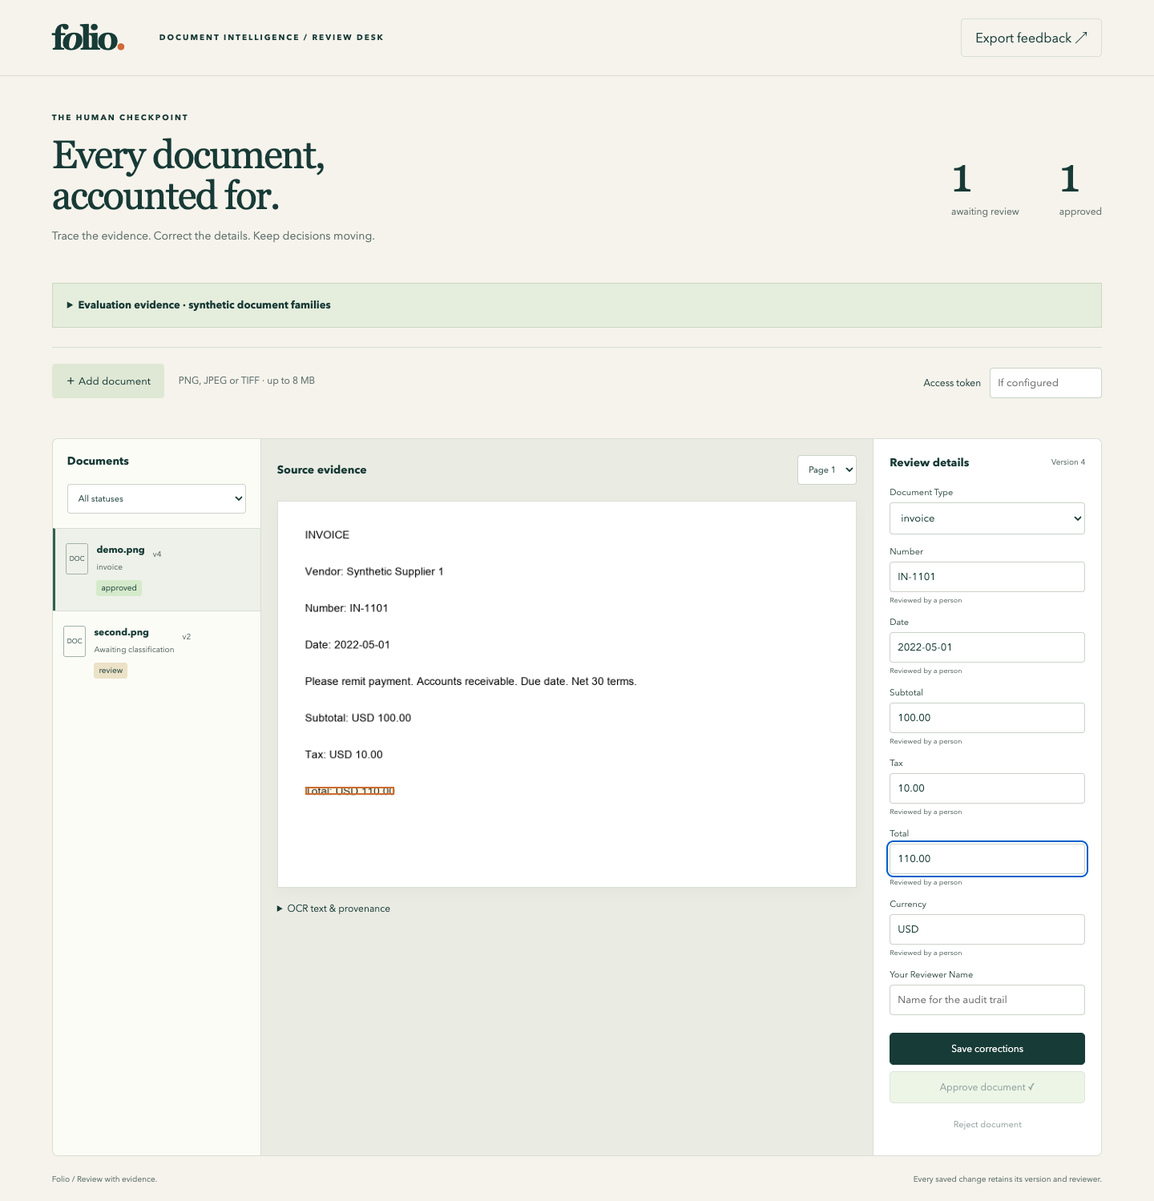
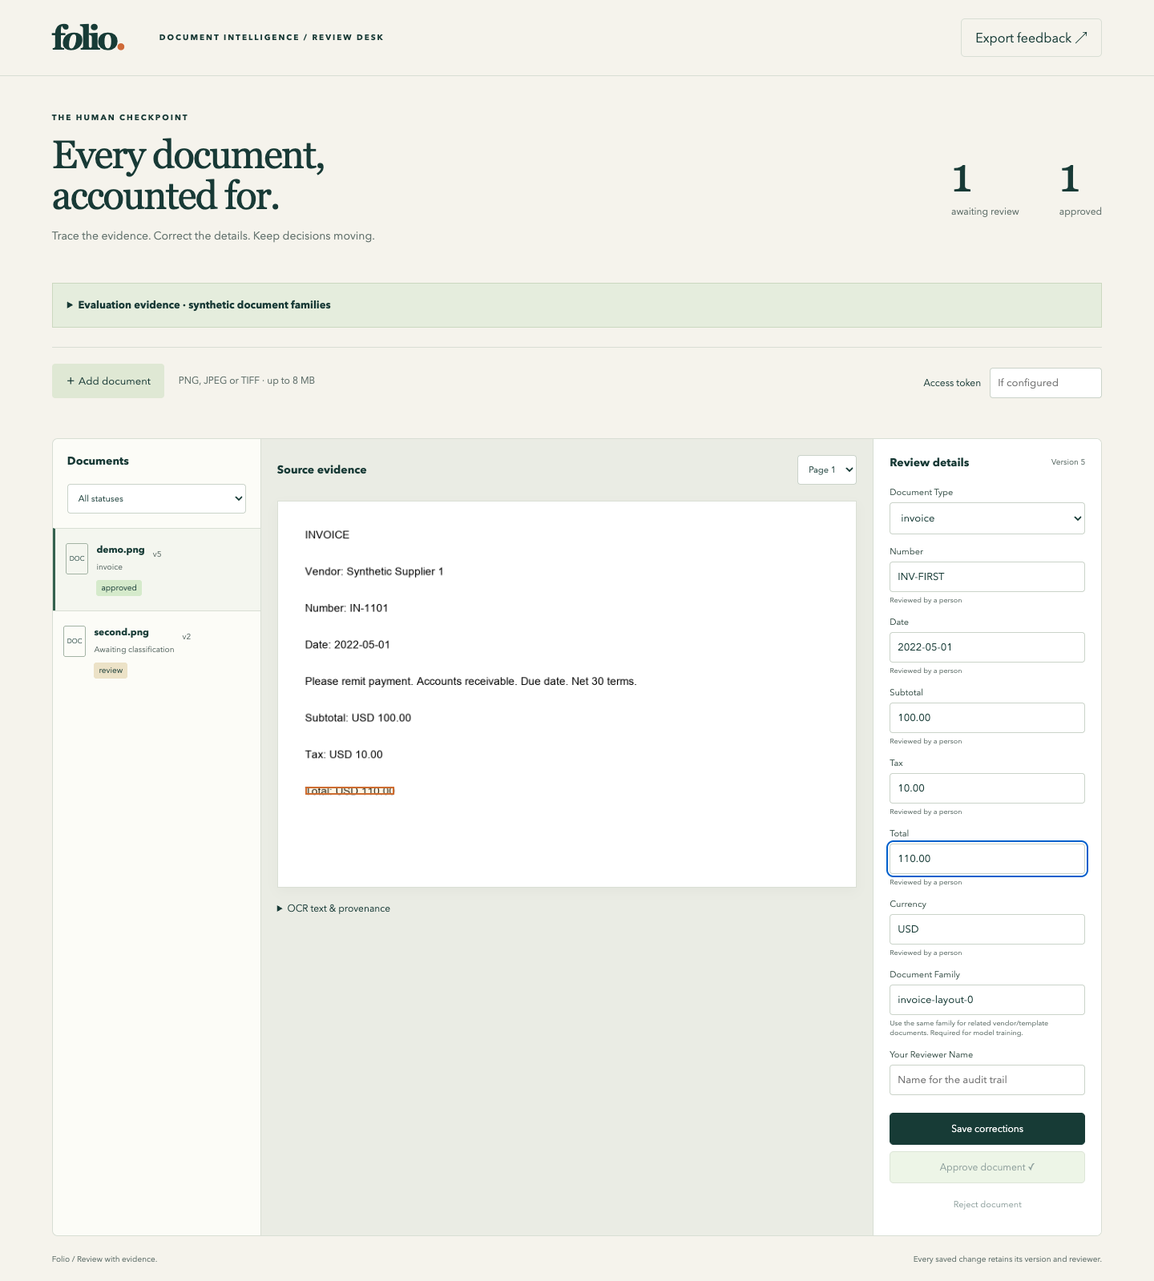
feat: complete reviewed-family assignment and leakage-safe feedback retraining

diff --git a/frontend/src/main.jsx b/frontend/src/main.jsx
@@ -4,6 +4,7 @@ import {request,filePayload} from './client';
 import './style.css';
 const names=['number','date','subtotal','tax','total','currency'];
 function App(){
+ const [family,setFamily]=useState('');
  const [evaluation,setEvaluation]=useState(null);
  const [dirty,setDirty]=useState(false);
  const [page,setPage]=useState(1),[focus,setFocus]=useState(null),[size,setSize]=useState({width:1500,height:1000});
@@ -12,9 +13,9 @@ function App(){
  function choose(row){if(dirty){setError("Save or discard your corrections before opening another document.");return;}open(row);}
  async function refresh(){const [items,counts,report]=await Promise.all([request('/api/documents'+(filter?'?status='+filter:'')),request('/api/summary'),request('/api/evaluation')]);setRows(items);setSummary(counts);setEvaluation(report);}
  useEffect(()=>{refresh().catch(e=>setError(e.message));},[filter]);
- function open(row){setDirty(false);setPage(1);setFocus(null);setSelected(row);setFields(Object.fromEntries(names.map(k=>[k,row.payload.fields?.[k]?.value||''])));setLabel(row.payload.label||row.payload.prediction?.label||'invoice');setError('');setMessage('');}
+ function open(row){setFamily(row.payload.family||'');setDirty(false);setPage(1);setFocus(null);setSelected(row);setFields(Object.fromEntries(names.map(k=>[k,row.payload.fields?.[k]?.value||''])));setLabel(row.payload.label||row.payload.prediction?.label||'invoice');setError('');setMessage('');}
  async function act(fn){setBusy(true);setError('');try{await fn();await refresh();}catch(e){setError(e.status===409?'Someone changed this document. Reload its latest version before saving.':e.message);}finally{setBusy(false);}}
- async function save(action){await act(async()=>{const row=await request(`/api/documents/${selected.id}/review`,{version:selected.version,fields:Object.fromEntries(Object.entries(fields).filter(([,v])=>v.trim())),label,reviewer,action},token);open(row);setMessage(action==='approve'?'Document approved':action==='reject'?'Document rejected':'Corrections saved');});}
+ async function save(action){await act(async()=>{const row=await request(`/api/documents/${selected.id}/review`,{version:selected.version,fields:Object.fromEntries(Object.entries(fields).filter(([,v])=>v.trim())),label,reviewer,action,family:family.trim()||null},token);open(row);setMessage(action==='approve'?'Document approved':action==='reject'?'Document rejected':'Corrections saved');});}
  async function upload(file){await act(async()=>{const row=await request('/api/documents',await filePayload(file),token);const result=await request(`/api/documents/${row.id}/process`,{},token);open(result);setMessage('Image processed. Review its extracted fields.');});}
  async function exportFeedback(){await act(async()=>{const records=await request('/api/feedback');const url=URL.createObjectURL(new Blob([JSON.stringify(records,null,2)],{type:'application/json'}));const link=document.createElement('a');link.href=url;link.download='reviewed-labels.json';link.click();URL.revokeObjectURL(url);setMessage(`${records.length} approved records exported`);});}
  return <><header><a className="brand" href="/">f<span>o</span>lio<span className="brand-dot">.</span></a><span className="eyebrow">DOCUMENT INTELLIGENCE / REVIEW DESK</span><button className="quiet" onClick={exportFeedback} disabled={busy}>Export feedback ↗</button></header>
@@ -23,7 +24,7 @@ function App(){
  {error&&<div role="alert" className="alert">{error}{selected&&<button onClick={()=>act(async()=>open(await request('/api/documents/'+selected.id)))}>Reload latest version</button>}</div>}
  <div role="status" aria-live="polite" className="notice">{busy?'Working…':message}</div>
  <section className="workspace"><aside><div className="queue-heading"><h2>Documents</h2><select aria-label="Filter status" value={filter} onChange={e=>setFilter(e.target.value)}><option value="">All statuses</option>{['queued','review','approved','rejected','failed'].map(x=><option key={x}>{x}</option>)}</select></div><div className="queue">{rows.length===0?<p className="empty">No documents here yet.<br/>Add an image to begin.</p>:rows.map(row=><button key={row.id} className={'queue-item '+(selected?.id===row.id?'selected':'')} onClick={()=>choose(row)}><span className="file-mark">DOC</span><span><strong>{row.filename}</strong><small>{row.payload.label||row.payload.prediction?.label||'Awaiting classification'}</small><em className={'badge '+row.status}>{row.status}</em></span><small>v{row.version}</small></button>)}</div></aside>
- {!selected?<div className="blank"><span className="document-icon">▤</span><h2>Evidence, side by side.</h2><p>Select a document to inspect its source and review the extracted fields.</p></div>:<><section className="evidence"><div className="panel-heading"><h2>Source evidence</h2><select aria-label="Source page" value={page} onChange={e=>setPage(Number(e.target.value))}>{(selected.payload.pages||[1]).map(p=><option key={p} value={p}>Page {p}</option>)}</select></div><div className="paper">{focus&&selected.payload.fields?.[focus]?.box&&selected.payload.fields[focus].page===page&&<div className="evidence-box" data-evidence={focus} style={{left:`${selected.payload.fields[focus].box.x/size.width*100}%`,top:`${selected.payload.fields[focus].box.y/size.height*100}%`,width:`${selected.payload.fields[focus].box.width/size.width*100}%`,height:`${selected.payload.fields[focus].box.height/size.height*100}%`}}/>}<img onLoad={e=>setSize({width:e.target.naturalWidth,height:e.target.naturalHeight})} alt={'Original '+selected.filename} src={`/api/documents/${selected.id}/image?page=${page}`}/></div><details><summary>OCR text & provenance</summary><pre>{selected.payload.text||'Not processed yet.'}</pre><small>SHA-256 {selected.digest}</small></details></section><section className="editor"><div className="panel-heading"><h2>Review details</h2><span>Version {selected.version}</span></div>{selected.status==='queued'?<button disabled={busy} onClick={()=>act(async()=>open(await request(`/api/documents/${selected.id}/process`,{},token)))}>Extract document</button>:<form onSubmit={e=>{e.preventDefault();save('save');}}><label>Document type<select value={label} onChange={e=>{setDirty(true);setLabel(e.target.value);}}>{['invoice','purchase_order','receipt'].map(x=><option key={x}>{x}</option>)}</select></label>{names.map(name=><label key={name}>{name.replace('_',' ')}<input name={name} onFocus={()=>{setFocus(name);setPage(selected.payload.fields?.[name]?.page||1);}} value={fields[name]||''} onChange={e=>{setDirty(true);setFields({...fields,[name]:e.target.value});}}/><small>{selected.payload.fields?.[name]?.method==='human-review'?'Reviewed by a person':selected.payload.fields?.[name]?`${Math.round(selected.payload.fields[name].confidence*100)}% OCR confidence · page ${selected.payload.fields[name].page}`:'No source value found'}</small></label>)}<label>Your reviewer name<input name="reviewer" required maxLength={80} value={reviewer} onChange={e=>setReviewer(e.target.value)} placeholder="Name for the audit trail"/></label>{selected.payload.issues?.length>0&&<p className="issues">Check: {selected.payload.issues.join(', ').replaceAll('_',' ')}</p>}{dirty&&<button type="button" className="quiet" onClick={()=>open(selected)}>Discard changes</button>}<button type="submit" disabled={busy}>Save corrections</button><button type="button" className="approve" disabled={busy||!reviewer.trim()} onClick={()=>save('approve')}>Approve document ✓</button><button type="button" className="quiet reject" disabled={busy||!reviewer.trim()} onClick={()=>save('reject')}>Reject document</button></form>}</section></>}
+ {!selected?<div className="blank"><span className="document-icon">▤</span><h2>Evidence, side by side.</h2><p>Select a document to inspect its source and review the extracted fields.</p></div>:<><section className="evidence"><div className="panel-heading"><h2>Source evidence</h2><select aria-label="Source page" value={page} onChange={e=>setPage(Number(e.target.value))}>{(selected.payload.pages||[1]).map(p=><option key={p} value={p}>Page {p}</option>)}</select></div><div className="paper">{focus&&selected.payload.fields?.[focus]?.box&&selected.payload.fields[focus].page===page&&<div className="evidence-box" data-evidence={focus} style={{left:`${selected.payload.fields[focus].box.x/size.width*100}%`,top:`${selected.payload.fields[focus].box.y/size.height*100}%`,width:`${selected.payload.fields[focus].box.width/size.width*100}%`,height:`${selected.payload.fields[focus].box.height/size.height*100}%`}}/>}<img onLoad={e=>setSize({width:e.target.naturalWidth,height:e.target.naturalHeight})} alt={'Original '+selected.filename} src={`/api/documents/${selected.id}/image?page=${page}`}/></div><details><summary>OCR text & provenance</summary><pre>{selected.payload.text||'Not processed yet.'}</pre><small>SHA-256 {selected.digest}</small></details></section><section className="editor"><div className="panel-heading"><h2>Review details</h2><span>Version {selected.version}</span></div>{selected.status==='queued'?<button disabled={busy} onClick={()=>act(async()=>open(await request(`/api/documents/${selected.id}/process`,{},token)))}>Extract document</button>:<form onSubmit={e=>{e.preventDefault();save('save');}}><label>Document type<select value={label} onChange={e=>{setDirty(true);setLabel(e.target.value);}}>{['invoice','purchase_order','receipt'].map(x=><option key={x}>{x}</option>)}</select></label>{names.map(name=><label key={name}>{name.replace('_',' ')}<input name={name} onFocus={()=>{setFocus(name);setPage(selected.payload.fields?.[name]?.page||1);}} value={fields[name]||''} onChange={e=>{setDirty(true);setFields({...fields,[name]:e.target.value});}}/><small>{selected.payload.fields?.[name]?.method==='human-review'?'Reviewed by a person':selected.payload.fields?.[name]?`${Math.round(selected.payload.fields[name].confidence*100)}% OCR confidence · page ${selected.payload.fields[name].page}`:'No source value found'}</small></label>)}<label>Document family<input name="family" value={family} maxLength={80} onChange={e=>{setDirty(true);setFamily(e.target.value);}} placeholder="vendor-template-v1"/><small>Use the same family for related vendor/template documents. Required for model training.</small></label><label>Your reviewer name<input name="reviewer" required maxLength={80} value={reviewer} onChange={e=>setReviewer(e.target.value)} placeholder="Name for the audit trail"/></label>{selected.payload.issues?.length>0&&<p className="issues">Check: {selected.payload.issues.join(', ').replaceAll('_',' ')}</p>}{dirty&&<button type="button" className="quiet" onClick={()=>open(selected)}>Discard changes</button>}<button type="submit" disabled={busy}>Save corrections</button><button type="button" className="approve" disabled={busy||!reviewer.trim()} onClick={()=>save('approve')}>Approve document ✓</button><button type="button" className="quiet reject" disabled={busy||!reviewer.trim()} onClick={()=>save('reject')}>Reject document</button></form>}</section></>}
  </section><footer><span>Folio / Review with evidence.</span><span>Every saved change retains its version and reviewer.</span></footer></main></>;
 }
 createRoot(document.getElementById('root')).render(<App/>);

diff --git a/frontend/tests/workstation.spec.js b/frontend/tests/workstation.spec.js
@@ -5,6 +5,7 @@ test('review queue renders and preserves document edits',async({page})=>{
  await page.locator('.queue-item').first().click();
  await expect(page.locator('input[name="total"]')).toBeVisible();
  await page.locator('input[name="reviewer"]').fill('browser-reviewer');
+ await page.locator('input[name="family"]').fill('invoice-layout-0');
  await page.locator('input[name="total"]').fill('110.00');
  await page.locator('button:has-text("Save corrections")').click();
  await expect(page.locator('[role="status"]')).toContainText('Corrections saved');

diff --git a/docreview/store.py b/docreview/store.py
@@ -9,7 +9,7 @@ class Conflict(ValueError):
 class Store:
     def __init__(self, path):
         self.path = str(path)
-        Path(path).parent.mkdir(parents=True, exist_ok=True)
+        Path(path).parent.mkdir(parents=True, exist_ok=True, mode=0o700)
         with self.connect() as c:
             c.executescript(
                 """
@@ -20,6 +20,8 @@ class Store:
              payload TEXT NOT NULL DEFAULT '{}', created REAL NOT NULL);
             """
             )
+
+        Path(path).chmod(0o600)
 
     def connect(self):
         c = sqlite3.connect(self.path, timeout=10)
@@ -119,9 +121,16 @@ class Store:
                 c.execute("SELECT * FROM documents WHERE id=?", (row["id"],)).fetchone()
             )
 
-    def review(self, identifier, version, fields, label, reviewer, action):
+    def review(self, identifier, version, fields, label, reviewer, action, family=None):
         from .review import validate_corrections
 
+        import re
+
+        if family is not None and (
+            not isinstance(family, str)
+            or not re.fullmatch(r"[A-Za-z0-9][A-Za-z0-9_.-]{0,79}", family)
+        ):
+            raise ValueError("Family must be a stable vendor/template identifier")
         corrections = validate_corrections(fields, label)
         if type(version) is not int or version < 1:
             raise ValueError("Version must be a positive integer")
@@ -165,6 +174,8 @@ class Store:
                     + ", ".join(payload["issues"])
                 )
             payload["label"] = label
+            if family is not None:
+                payload["family"] = family
             status = {"save": "review", "approve": "approved", "reject": "rejected"}[
                 action
             ]
@@ -182,7 +193,13 @@ class Store:
                     version + 1,
                     reviewer,
                     action,
-                    json.dumps({"fields": corrections, "label": label}),
+                    json.dumps(
+                        {
+                            "fields": corrections,
+                            "label": label,
+                            "family": payload.get("family"),
+                        }
+                    ),
                     time.time(),
                 ),
             )

diff --git a/tests/test_feedback_training.py b/tests/test_feedback_training.py
@@ -1,0 +1,58 @@
+import unittest, tempfile, pathlib
+from docreview.feedback import retrain_feedback
+
+
+class FeedbackTrainingTests(unittest.TestCase):
+    def test_reviewed_labels_retrain_on_fixed_holdout(self):
+        row = {
+            "id": "reviewed-1",
+            "family": "new-vendor",
+            "text": "Invoice payment due for consulting services",
+            "label": "invoice",
+        }
+        with tempfile.TemporaryDirectory() as d:
+            report = retrain_feedback([row], d)
+            self.assertEqual(report["training_count"], 109)
+            self.assertEqual(report["test"]["count"], 36)
+            self.assertTrue(pathlib.Path(d, "model", "manifest.json").exists())
+
+    def test_unassigned_family_is_rejected(self):
+        with tempfile.TemporaryDirectory() as d:
+            with self.assertRaises(ValueError):
+                retrain_feedback(
+                    [
+                        {
+                            "id": "x",
+                            "family": None,
+                            "text": "invoice",
+                            "label": "invoice",
+                        }
+                    ],
+                    d,
+                )
+
+
+class FamilyReviewTests(unittest.TestCase):
+    def test_reviewed_family_exports_and_blocks_holdout_retraining(self):
+        from docreview.store import Store
+        from docreview.feedback import export_corrections
+
+        with tempfile.TemporaryDirectory() as d:
+            s = Store(pathlib.Path(d) / "db")
+            row = s.create("a" * 64, "x", "x")
+            s.result(
+                row["id"], 1, {"fields": {}, "text": "Novel vendor invoice payment due"}
+            )
+            s.review(
+                row["id"],
+                2,
+                {"number": "I", "date": "2022-12-01", "total": "10"},
+                "invoice",
+                "alice",
+                "approve",
+                family="invoice-layout-4",
+            )
+            exported = export_corrections(s)
+            self.assertEqual(exported[0]["family"], "invoice-layout-4")
+            with self.assertRaises(ValueError):
+                retrain_feedback(exported, pathlib.Path(d) / "model")

diff --git a/docreview/feedback.py b/docreview/feedback.py
@@ -72,9 +72,44 @@ def export_corrections(store):
                     "fields": {
                         k: v["value"] for k, v in payload.get("fields", {}).items()
                     },
-                    "family": payload.get("family", row["digest"]),
+                    "family": payload.get("family"),
                     "source": "human-reviewed",
                 }
             )
         offset += len(rows)
     return result
+
+
+def retrain_feedback(feedback, directory):
+    """Train reviewed labels without changing the fixed calibration/test families."""
+    import json
+    from pathlib import Path
+    from .fixtures import records
+    from .dataset import split, audit_split, fingerprint
+    from .baseline import train, predict, save
+    from .metrics import classification
+
+    parts = split(records())
+    audit_split(parts)
+    training = merge_training_feedback(
+        parts["train"], feedback, parts["calibration"] + parts["test"]
+    )
+    model = train(training)
+    predictions = predict(model, [r["text"] for r in parts["test"]])
+    directory = Path(directory)
+    metadata = {
+        "training_sha256": fingerprint(training),
+        "feedback_ids": [r["id"] for r in feedback],
+    }
+    save(model, directory / "model", metadata)
+    report = {
+        **metadata,
+        "scope": "Fixed synthetic family holdout with additional reviewed labels",
+        "training_count": len(training),
+        "feedback_count": len(feedback),
+        "test": classification(
+            [r["label"] for r in parts["test"]], [p["label"] for p in predictions]
+        ),
+    }
+    (directory / "feedback-evaluation.json").write_text(json.dumps(report, indent=2))
+    return report

diff --git a/docreview/api.py b/docreview/api.py
@@ -21,6 +21,12 @@ def strict_json(data):
     return json.loads(data, object_pairs_hook=pairs, parse_constant=constant)
 
 
+def web_root(package=None):
+    package = Path(package) if package else Path(__file__).resolve().parent
+    checkout = package.parent / "frontend" / "dist"
+    return checkout if (checkout / "index.html").exists() else package / "web"
+
+
 def static_asset(directory, url):
     import mimetypes
     from urllib.parse import unquote
@@ -119,6 +125,7 @@ def create_server(
                                 body["label"],
                                 body["reviewer"],
                                 body["action"],
+                                family=body.get("family"),
                             ),
                         )
                 self.respond(404, {"error": "Not found"})
@@ -142,7 +149,7 @@ def create_server(
                 params = parse_qs(urlsplit(self.path).query)
                 if not path.startswith("/api/"):
                     data, content_type = static_asset(
-                        Path(__file__).resolve().parent.parent / "frontend" / "dist",
+                        web_root(),
                         path,
                     )
                     self.send_response(200)

diff --git a/tests/test_store_permissions.py b/tests/test_store_permissions.py
@@ -1,0 +1,29 @@
+import unittest, tempfile, pathlib, concurrent.futures
+from docreview.store import Store, Conflict
+
+
+class PrivateStoreTests(unittest.TestCase):
+    def test_database_is_private(self):
+        with tempfile.TemporaryDirectory() as d:
+            p = pathlib.Path(d) / "nested/review.sqlite"
+            Store(p)
+            self.assertEqual(p.stat().st_mode & 0o777, 0o600)
+            self.assertEqual(p.parent.stat().st_mode & 0o777, 0o700)
+
+    def test_only_one_concurrent_review_wins(self):
+        with tempfile.TemporaryDirectory() as d:
+            s = Store(pathlib.Path(d) / "s")
+            r = s.create("a" * 64, "x", "x")
+            s.result(r["id"], 1, {"fields": {}})
+
+            def write(name):
+                try:
+                    s.review(r["id"], 2, {"number": name}, "invoice", name, "save")
+                    return True
+                except Conflict:
+                    return False
+
+            with concurrent.futures.ThreadPoolExecutor(max_workers=2) as pool:
+                results = list(pool.map(write, ["alice", "bob"]))
+            self.assertEqual(sum(results), 1)
+            self.assertEqual(len(s.events(r["id"])), 1)

diff --git a/docreview/cli.py b/docreview/cli.py
@@ -48,7 +48,23 @@ def main():
     backup.add_argument("operation", choices=["snapshot", "restore"])
     backup.add_argument("source")
     backup.add_argument("target")
+    feedback_train = sub.add_parser(
+        "feedback-train",
+        help="Retrain reviewed labels with explicitly assigned families",
+    )
+    feedback_train.add_argument("input")
+    feedback_train.add_argument("--output", default="artifacts/feedback")
     args = parser.parse_args()
+    if args.command == "feedback-train":
+        from pathlib import Path
+        from .feedback import retrain_feedback
+
+        print(
+            json.dumps(
+                retrain_feedback(json.loads(Path(args.input).read_text()), args.output),
+                indent=2,
+            )
+        )
     if args.command == "feedback":
         from .pipeline import Pipeline
         from .feedback import export_corrections, select_examples

diff --git a/scripts/browser_check.py b/scripts/browser_check.py
@@ -84,6 +84,18 @@ try:
         subprocess.run(
             ["npm", "run", "test:e2e"], cwd=root / "frontend", env=env, check=True
         )
+        from docreview.feedback import retrain_feedback
+
+        with urllib.request.urlopen(
+            f"http://127.0.0.1:{api_port}/api/feedback"
+        ) as response:
+            feedback = json.load(response)
+        if not feedback:
+            raise AssertionError("Browser journey did not create approved feedback")
+        report = retrain_feedback(feedback, directory / "retrained")
+        if report["feedback_count"] != len(feedback):
+            raise AssertionError("Reviewed labels did not enter training")
+        print(json.dumps({"browser_feedback_retrained": report}, indent=2))
 finally:
     for process in reversed(processes):
         if process.poll() is None:

diff --git a/tests/test_web_assets.py b/tests/test_web_assets.py
@@ -1,0 +1,13 @@
+import unittest, pathlib, tempfile
+from docreview.api import web_root
+
+
+class WheelAssetsTests(unittest.TestCase):
+    def test_packaged_assets_fallback(self):
+        with tempfile.TemporaryDirectory() as d:
+            d = pathlib.Path(d)
+            package = d / "lib/docreview"
+            package.mkdir(parents=True)
+            (package / "web").mkdir()
+            (package / "web/index.html").write_text("site")
+            self.assertEqual(web_root(package), package / "web")

diff --git a/docs/model-card.md b/docs/model-card.md
@@ -24,3 +24,11 @@ See [the machine-readable report](evaluation.json) for dataset fingerprints, spl
 The benchmark classifies fixture source text. OCR field evaluation and OCR-to-classifier checks are separate measurements against rendered image pixels. Handwriting, multilingual documents, photographs, severe skew, arbitrary vendor templates and legal or financial verification are outside the demonstrated scope.
 
 Human corrections can become training examples after family assignment and a leakage audit. Reviewers must not move known calibration/test families into training during the same comparison.
+
+## Feedback families and deployed confidence
+
+A reviewer assigns a stable vendor/template family in the visible `Document family` field. Related pages and document variants must share that identifier. The reviewed export preserves it; unassigned families are rejected by `feedback-train`. For the built-in fixture set, `invoice-layout-0` through `invoice-layout-2` (and the equivalent other-class families) are training families, suffix `3` is calibration, and suffix `4` is test. Exported feedback overlapping calibration/test families, IDs or normalized texts is refused.
+
+Run `python -m docreview feedback-train reviewed-labels.json --output artifacts/feedback` after exporting approved records. This trains and evaluates a candidate artifact; it does not activate it. The browser integration test sets the family using the form, exports actual approved records and retrains directly from that export.
+
+The deployed pipeline currently uses raw classifier probabilities with a fixed 0.85 review threshold and 0.75 OCR field threshold. Temperature fitting, coverage curves and selected thresholds in the comparison report are offline evaluation. They do not automatically alter serving or routing policy.
